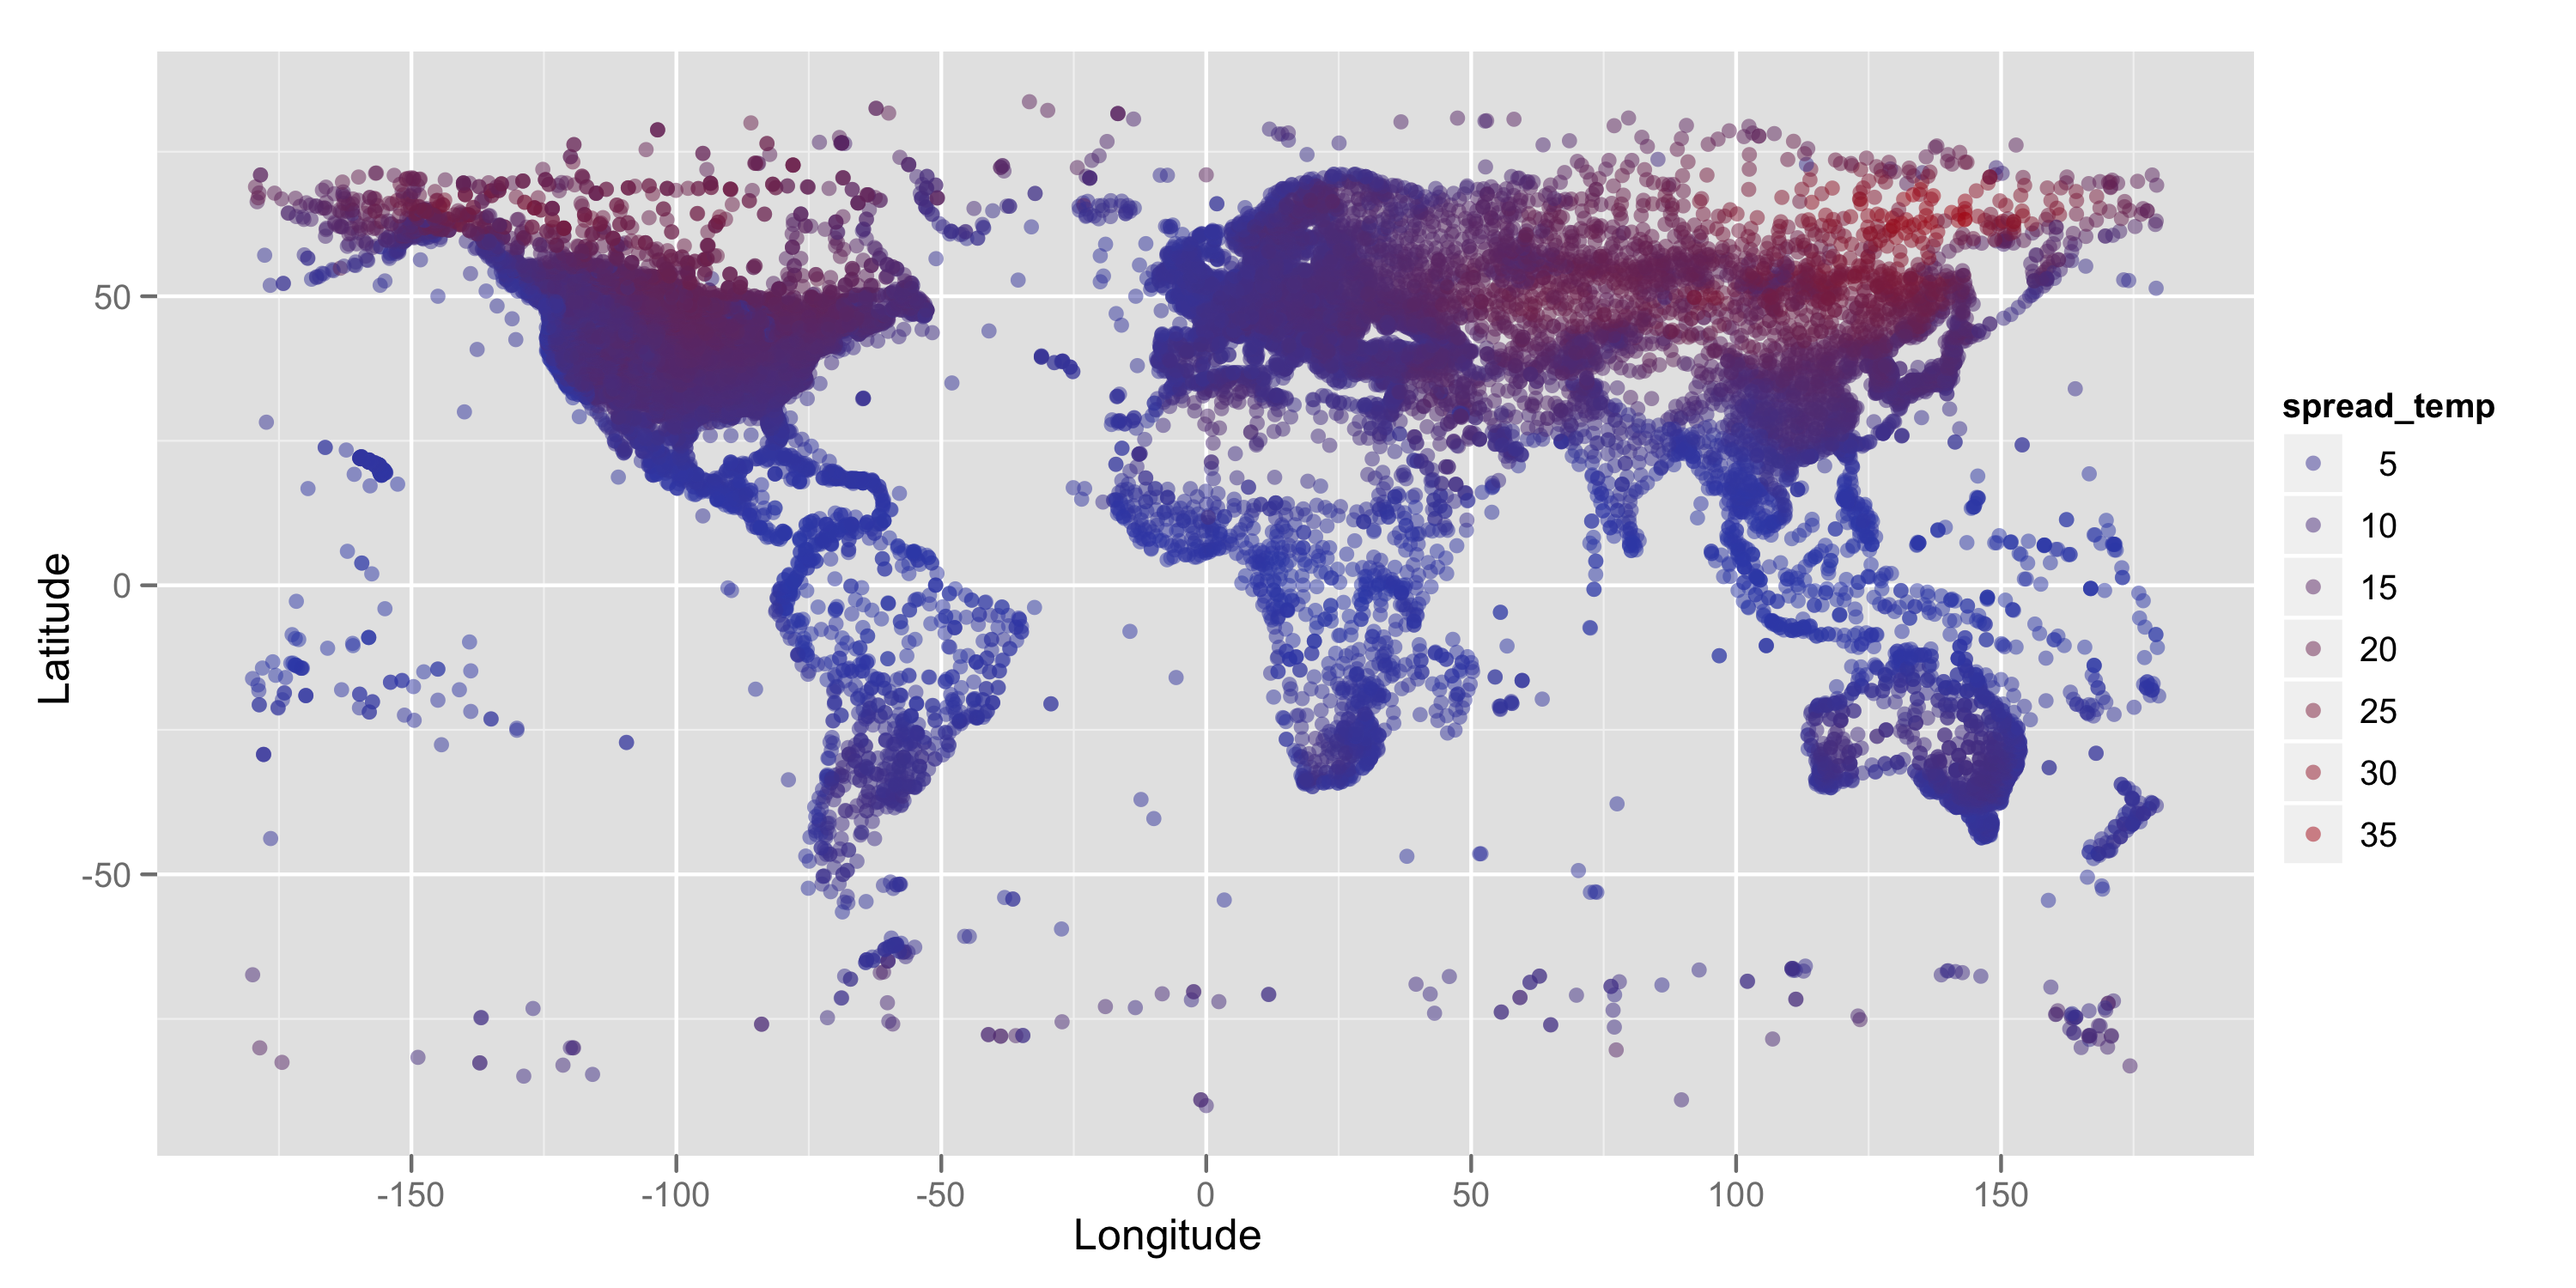
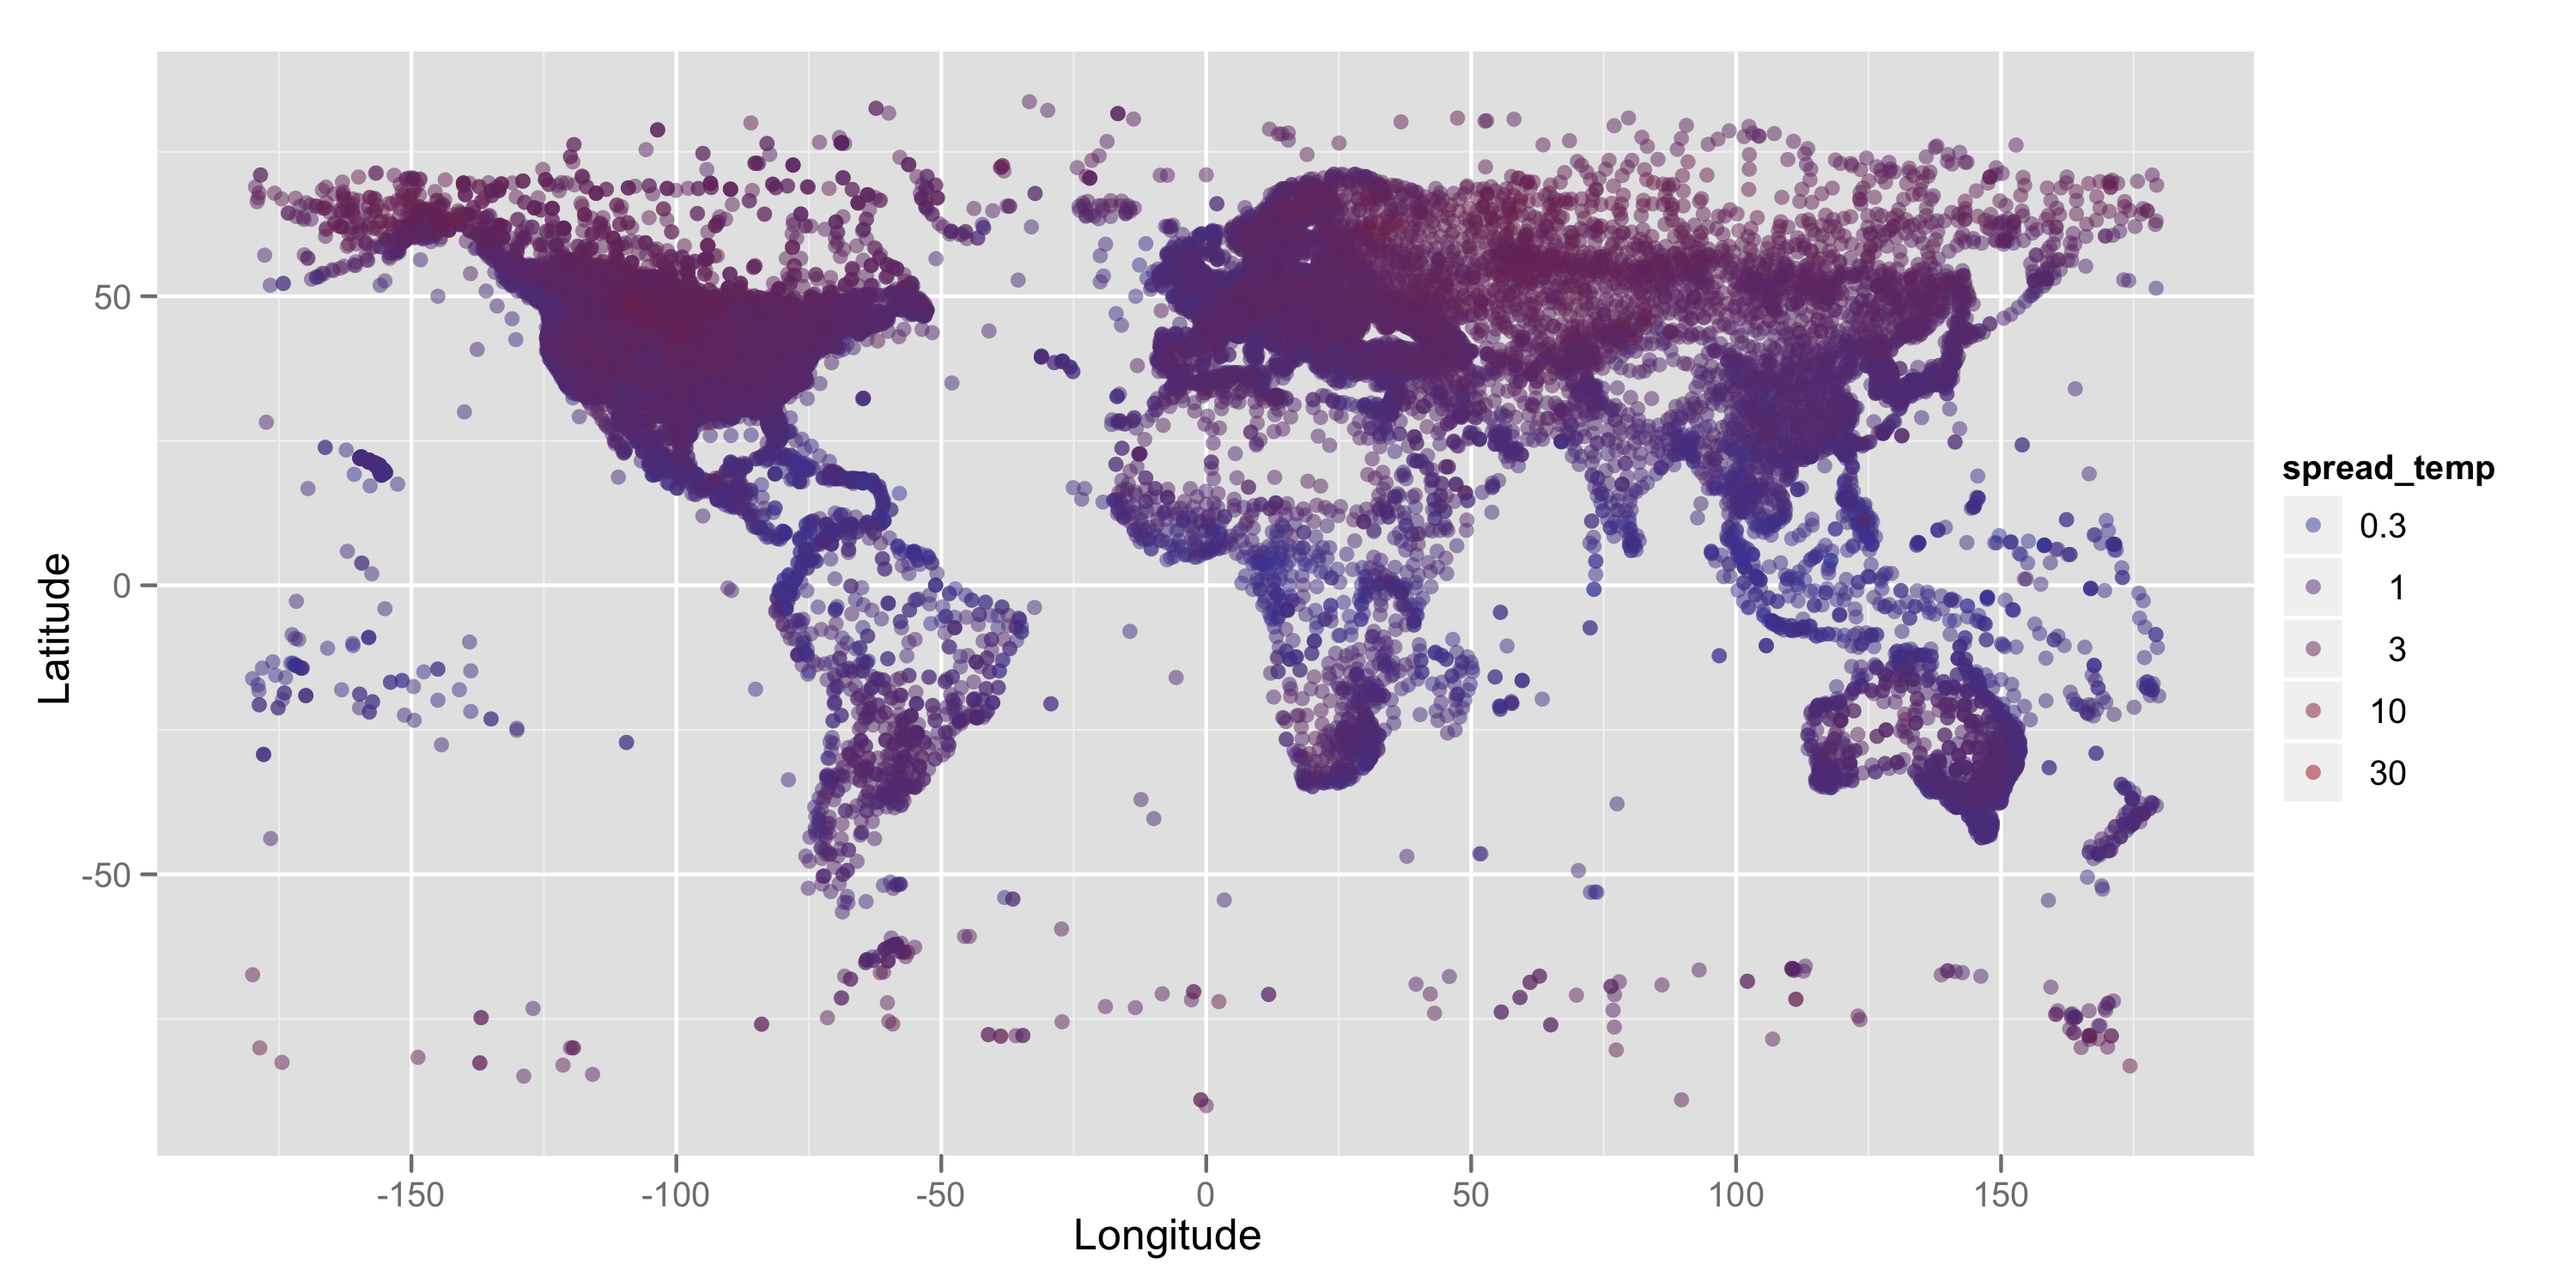
updated plots to TAVG data (not old TMAX)

diff --git a/README.md b/README.md
@@ -151,20 +151,29 @@ For each index we pull the records for a single site and apply the `summarise_te
     site_summaries <- rbind.fill(lapply(site_indices,
       function(i) summarise_temp(temps[i, c('Date','Temperature'),
       drop=FALSE])))
-    site_summaries$StationID <- rownames(site_summaries)
+    site_summaries$StationID <- names(site_indices)
+
 This summary is most useful when we combine it with the site information:
 
     site_summaries <- join(site_summaries, sites, type = "inner")
 
-Then we can plot average temperature by location (for sites with atleast 5 years of monthly measurements):
-    
-    qplot(Longitude, Latitude, data = subset(site_summaries, n_months > 60), 
+Then we can plot average temperature by location (for sites with atleast 5 years of monthly measurements and ignoring a couple of really weird sites):
+
+    # weird IDs - investigate if you are interested
+    bad_ids <- c(135184, 116336, 144093)
+    # plot the avg_temp at sites with atleast 60 months
+    qplot(Longitude, Latitude, 
+      data = subset(site_summaries, !(StationID %in% bad_ids) & n_months > 60), 
       alpha = I(0.5), colour = avg_temp) 
 ![plot](http://github.com/cwickham/BerkeleyEarthR/raw/master/images/avg_temp.png)
 
 Or temperature variability by location:
 
-    qplot(Longitude, Latitude, data = subset(site_summaries, n_months > 60), 
-      alpha = I(0.5), colour = spread_temp) 
+    qplot(Longitude, Latitude, 
+      data = subset(site_summaries, !(StationID %in% bad_ids) & n_months > 60), 
+      alpha = I(0.5), colour = spread_temp) +
+      scale_colour_gradient(trans = "log10", 
+        breaks = c(0.3, 1, 3, 10, 30), labels = c(0.3, 1, 3, 10, 30)) 
+
 ![plot](http://github.com/cwickham/BerkeleyEarthR/raw/master/images/var_temp.png)
 
